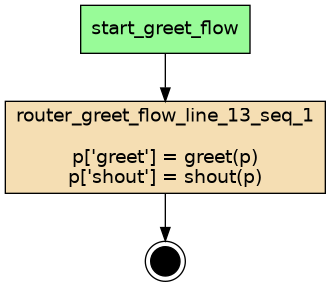
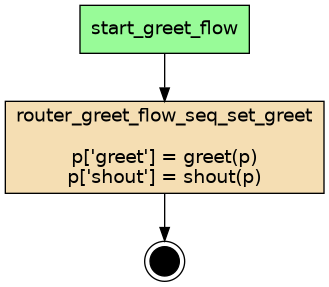
curr

diff --git a/examples/demo-skaffold/compiled/greet-flow/code/routers.py b/examples/demo-skaffold/compiled/greet-flow/code/routers.py
@@ -16,11 +16,11 @@ Regenerate by running: asya flow compile greet_flow.py
 async def start_greet_flow(payload: dict):
     """Entrypoint for flow 'greet_flow'"""
     _next = []
-    _next.append(resolve("router_greet_flow_line_13_seq_1"))
+    _next.append(resolve("router_greet_flow_seq_set_greet"))
     yield "SET", ".route.next[:0]", _next
     yield payload
 
-async def router_greet_flow_line_13_seq_1(payload: dict):
+async def router_greet_flow_seq_set_greet(payload: dict):
     """Router for control flow and payload mutations"""
     p = payload
     p['greet'] = greet(p)
